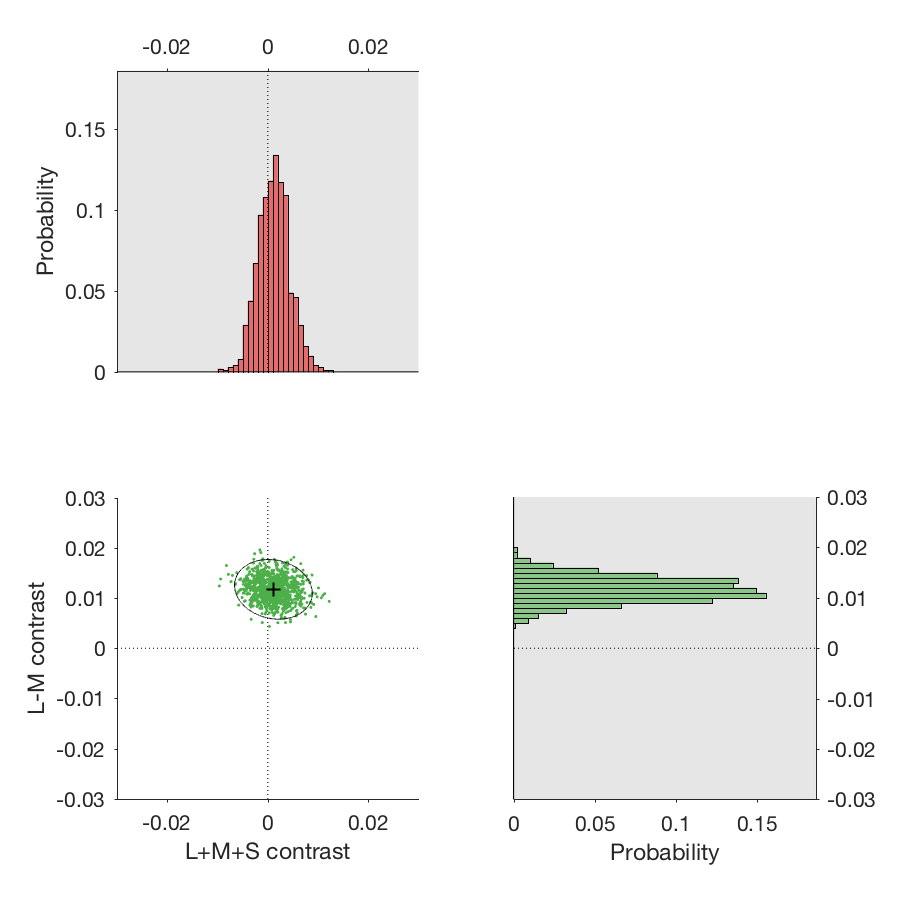
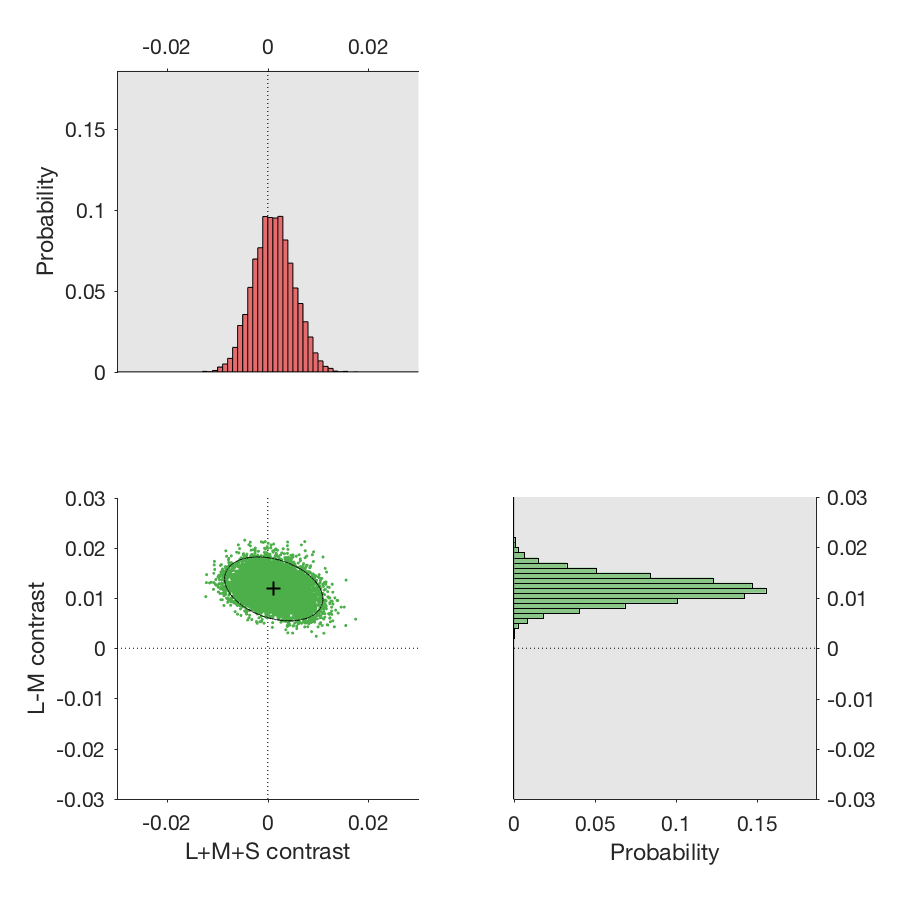
Fresh plots

diff --git a/SST/SSTReceptorDemo.m b/SST/SSTReceptorDemo.m
@@ -94,7 +94,7 @@ end
 % individual difference parameters.
 
 % Define the number of samples.
-NSamples = 1000;
+NSamples = 10000;
 
 % Resample! This gets saved out in the "Ts" field of the receptor object.
 receptorObj.makeSpectralSensitivitiesStochastic('NSamples', NSamples);
@@ -209,7 +209,7 @@ ScatterplotWithHistogram(postRecepContrasts(1, :), postRecepContrasts(3, :), ...
     'YRefLines', [XNominalContrast XNominalContrast ; YAxLims], ...
     'XNominalContrast', XNominalContrast, ...
     'YNominalContrast', YNominalContrast, ...
-    'Color', [theRGB(1, :) ; theRGB(2, :)]);
+    'Color', [theRGB(1, :) ; theRGB(3, :)]);
 
 % Plot mean
 plot(mean(postRecepContrasts(1, :)), mean(postRecepContrasts(3, :)), '+k');
